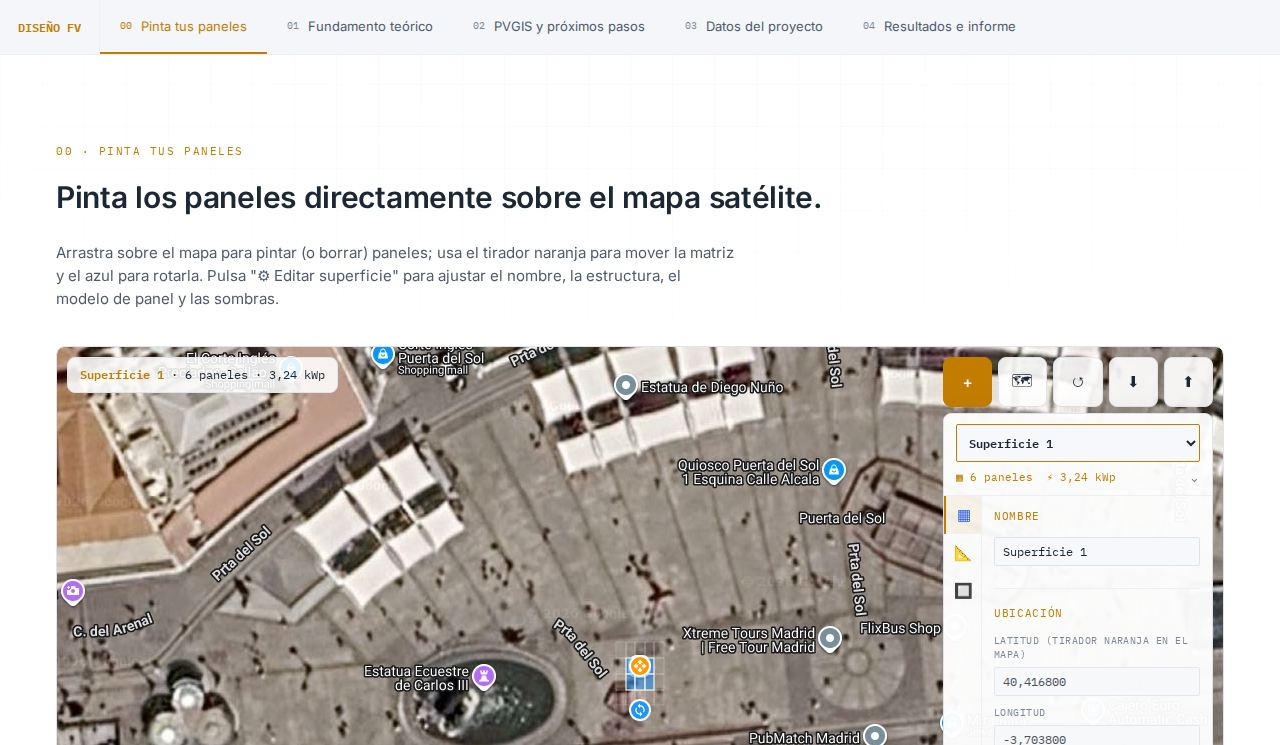
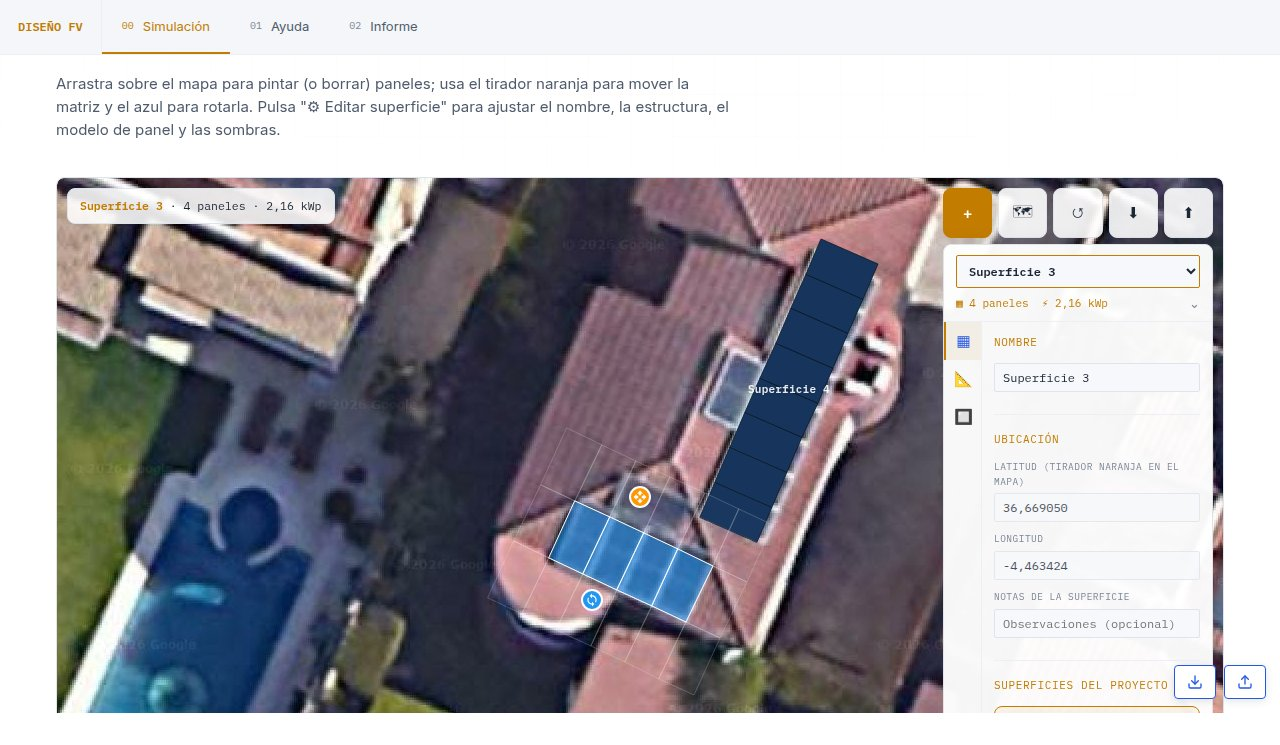
prg

diff --git a/public/docs/A00_Blog_Interactivo/A01_FV/C01_Diseno_Sistemas_FV.html b/public/docs/A00_Blog_Interactivo/A01_FV/C01_Diseno_Sistemas_FV.html
@@ -1884,8 +1884,9 @@ window.toggleInst = function(id){ document.getElementById('ib-'+id).classList.to
 // Comunicacion bidireccional con VatiaCo.<DOC_KEY_C01>.outputs.diseno: si ya hay un diseno
 // guardado en la memoria del navegador (por ejemplo, justo despues de importar un
 // VatiaCo.json con el boton "Importar VatiaCo.json", que recarga la pagina) se restauran esas
-// superficies y sus paneles pintados; si no hay nada guardado, se crea una superficie inicial
-// en blanco para que el usuario pueda empezar a pintar de inmediato.
+// superficies y sus paneles pintados; si no hay nada guardado, se carga DISENO_POR_DEFECTO.
+// Diseno de ejemplo que se carga cuando no hay ninguno guardado en el navegador.
+const DISENO_POR_DEFECTO = {"type":"FeatureCollection","features":[{"type":"Feature","properties":{"area":"Superficie 3","block":"1,-1","panel":"0,0","orientation":"vertical","rotation":25.173524524530166,"tilt":35,"slope":35,"tipoEstructura":"coplanar","width":1.134,"height":2.278,"rows":1,"cols":1,"modelo":"JKM540M-72HL4-V","potenciaW":540,"vOc":49.5,"vMp":41.5,"iSc":13.92,"iMp":13.02,"coefVoc":-0.26,"factorSeparacion":1,"sombras":"0,0,0,0,0,0,0,0,0,0,0,0,0,0,0,0","lat":36.66905035762675,"lng":-4.4634244591517485,"zoomDiseno":22,"notas":""},"geometry":{"type":"Polygon","coordinates":[[[-4.4634550345165245,36.66903410116955],[-4.463443540437609,36.66902976806014],[-4.463434650940007,36.66904493880769],[-4.4634461450189225,36.66904927191709],[-4.4634550345165245,36.66903410116955]]]}},{"type":"Feature","properties":{"area":"Superficie 3","block":"1,0","panel":"0,0","orientation":"vertical","rotation":25.173524524530166,"tilt":35,"slope":35,"tipoEstructura":"coplanar","width":1.134,"height":2.278,"rows":1,"cols":1,"modelo":"JKM540M-72HL4-V","potenciaW":540,"vOc":49.5,"vMp":41.5,"iSc":13.92,"iMp":13.02,"coefVoc":-0.26,"factorSeparacion":1,"sombras":"0,0,0,0,0,0,0,0,0,0,0,0,0,0,0,0","lat":36.66905035762675,"lng":-4.4634244591517485,"zoomDiseno":22,"notas":""},"geometry":{"type":"Polygon","coordinates":[[[-4.463443540437609,36.66902976806014],[-4.463432046358694,36.66902543495074],[-4.463423156861092,36.66904060569828],[-4.463434650940007,36.66904493880769],[-4.463443540437609,36.66902976806014]]]}},{"type":"Feature","properties":{"area":"Superficie 3","block":"1,1","panel":"0,0","orientation":"vertical","rotation":25.173524524530166,"tilt":35,"slope":35,"tipoEstructura":"coplanar","width":1.134,"height":2.278,"rows":1,"cols":1,"modelo":"JKM540M-72HL4-V","potenciaW":540,"vOc":49.5,"vMp":41.5,"iSc":13.92,"iMp":13.02,"coefVoc":-0.26,"factorSeparacion":1,"sombras":"0,0,0,0,0,0,0,0,0,0,0,0,0,0,0,0","lat":36.66905035762675,"lng":-4.4634244591517485,"zoomDiseno":22,"notas":""},"geometry":{"type":"Polygon","coordinates":[[[-4.463432046358694,36.66902543495074],[-4.463420552279778,36.66902110184133],[-4.4634116627821765,36.669036272588876],[-4.463423156861092,36.66904060569828],[-4.463432046358694,36.66902543495074]]]}},{"type":"Feature","properties":{"area":"Superficie 3","block":"1,2","panel":"0,0","orientation":"vertical","rotation":25.173524524530166,"tilt":35,"slope":35,"tipoEstructura":"coplanar","width":1.134,"height":2.278,"rows":1,"cols":1,"modelo":"JKM540M-72HL4-V","potenciaW":540,"vOc":49.5,"vMp":41.5,"iSc":13.92,"iMp":13.02,"coefVoc":-0.26,"factorSeparacion":1,"sombras":"0,0,0,0,0,0,0,0,0,0,0,0,0,0,0,0","lat":36.66905035762675,"lng":-4.4634244591517485,"zoomDiseno":22,"notas":""},"geometry":{"type":"Polygon","coordinates":[[[-4.463420552279778,36.66902110184133],[-4.463409058200862,36.66901676873193],[-4.46340016870326,36.66903193947947],[-4.4634116627821765,36.669036272588876],[-4.463420552279778,36.66902110184133]]]}},{"type":"Feature","properties":{"area":"Superficie 4","block":"0,-1","panel":"0,0","orientation":"vertical","rotation":-66.31791227546155,"tilt":35,"slope":35,"tipoEstructura":"coplanar","width":1.134,"height":2.278,"rows":1,"cols":1,"modelo":"JKM540M-72HL4-V","potenciaW":540,"vOc":49.5,"vMp":41.5,"iSc":13.92,"iMp":13.02,"coefVoc":-0.26,"factorSeparacion":1,"sombras":"0,0,0,0,0,0,0,0,0,0,0,0,0,0,0,0","lat":36.66905573412303,"lng":-4.463387242664196,"zoomDiseno":22,"notas":""},"geometry":{"type":"Polygon","coordinates":[[[-4.463385325106071,36.66903837407584],[-4.46338022388139,36.66904770311446],[-4.463399362671685,36.66905443609298],[-4.4634044638963655,36.66904510705435],[-4.463385325106071,36.66903837407584]]]}},{"type":"Feature","properties":{"area":"Superficie 4","block":"0,0","panel":"0,0","orientation":"vertical","rotation":-66.31791227546155,"tilt":35,"slope":35,"tipoEstructura":"coplanar","width":1.134,"height":2.278,"rows":1,"cols":1,"modelo":"JKM540M-72HL4-V","potenciaW":540,"vOc":49.5,"vMp":41.5,"iSc":13.92,"iMp":13.02,"coefVoc":-0.26,"factorSeparacion":1,"sombras":"0,0,0,0,0,0,0,0,0,0,0,0,0,0,0,0","lat":36.66905573412303,"lng":-4.463387242664196,"zoomDiseno":22,"notas":""},"geometry":{"type":"Polygon","coordinates":[[[-4.46338022388139,36.66904770311446],[-4.463375122656708,36.66905703215308],[-4.463394261447003,36.6690637651316],[-4.463399362671685,36.66905443609298],[-4.46338022388139,36.66904770311446]]]}},{"type":"Feature","properties":{"area":"Superficie 4","block":"0,1","panel":"0,0","orientation":"vertical","rotation":-66.31791227546155,"tilt":35,"slope":35,"tipoEstructura":"coplanar","width":1.134,"height":2.278,"rows":1,"cols":1,"modelo":"JKM540M-72HL4-V","potenciaW":540,"vOc":49.5,"vMp":41.5,"iSc":13.92,"iMp":13.02,"coefVoc":-0.26,"factorSeparacion":1,"sombras":"0,0,0,0,0,0,0,0,0,0,0,0,0,0,0,0","lat":36.66905573412303,"lng":-4.463387242664196,"zoomDiseno":22,"notas":""},"geometry":{"type":"Polygon","coordinates":[[[-4.463375122656708,36.66905703215308],[-4.463370021432027,36.6690663611917],[-4.463389160222322,36.669073094170216],[-4.463394261447003,36.6690637651316],[-4.463375122656708,36.66905703215308]]]}},{"type":"Feature","properties":{"area":"Superficie 4","block":"0,2","panel":"0,0","orientation":"vertical","rotation":-66.31791227546155,"tilt":35,"slope":35,"tipoEstructura":"coplanar","width":1.134,"height":2.278,"rows":1,"cols":1,"modelo":"JKM540M-72HL4-V","potenciaW":540,"vOc":49.5,"vMp":41.5,"iSc":13.92,"iMp":13.02,"coefVoc":-0.26,"factorSeparacion":1,"sombras":"0,0,0,0,0,0,0,0,0,0,0,0,0,0,0,0","lat":36.66905573412303,"lng":-4.463387242664196,"zoomDiseno":22,"notas":""},"geometry":{"type":"Polygon","coordinates":[[[-4.463370021432027,36.6690663611917],[-4.463364920207346,36.66907569023032],[-4.463384058997641,36.669082423208835],[-4.463389160222322,36.669073094170216],[-4.463370021432027,36.6690663611917]]]}},{"type":"Feature","properties":{"area":"Superficie 4","block":"0,3","panel":"0,0","orientation":"vertical","rotation":-66.31791227546155,"tilt":35,"slope":35,"tipoEstructura":"coplanar","width":1.134,"height":2.278,"rows":1,"cols":1,"modelo":"JKM540M-72HL4-V","potenciaW":540,"vOc":49.5,"vMp":41.5,"iSc":13.92,"iMp":13.02,"coefVoc":-0.26,"factorSeparacion":1,"sombras":"0,0,0,0,0,0,0,0,0,0,0,0,0,0,0,0","lat":36.66905573412303,"lng":-4.463387242664196,"zoomDiseno":22,"notas":""},"geometry":{"type":"Polygon","coordinates":[[[-4.463364920207346,36.66907569023032],[-4.463359818982664,36.66908501926894],[-4.46337895777296,36.66909175224745],[-4.463384058997641,36.669082423208835],[-4.463364920207346,36.66907569023032]]]}},{"type":"Feature","properties":{"area":"Superficie 4","block":"0,4","panel":"0,0","orientation":"vertical","rotation":-66.31791227546155,"tilt":35,"slope":35,"tipoEstructura":"coplanar","width":1.134,"height":2.278,"rows":1,"cols":1,"modelo":"JKM540M-72HL4-V","potenciaW":540,"vOc":49.5,"vMp":41.5,"iSc":13.92,"iMp":13.02,"coefVoc":-0.26,"factorSeparacion":1,"sombras":"0,0,0,0,0,0,0,0,0,0,0,0,0,0,0,0","lat":36.66905573412303,"lng":-4.463387242664196,"zoomDiseno":22,"notas":""},"geometry":{"type":"Polygon","coordinates":[[[-4.463359818982664,36.66908501926894],[-4.4633547177579835,36.66909434830756],[-4.463373856548278,36.66910108128607],[-4.46337895777296,36.66909175224745],[-4.463359818982664,36.66908501926894]]]}},{"type":"Feature","properties":{"area":"Superficie 4","block":"0,5","panel":"0,0","orientation":"vertical","rotation":-66.31791227546155,"tilt":35,"slope":35,"tipoEstructura":"coplanar","width":1.134,"height":2.278,"rows":1,"cols":1,"modelo":"JKM540M-72HL4-V","potenciaW":540,"vOc":49.5,"vMp":41.5,"iSc":13.92,"iMp":13.02,"coefVoc":-0.26,"factorSeparacion":1,"sombras":"0,0,0,0,0,0,0,0,0,0,0,0,0,0,0,0","lat":36.66905573412303,"lng":-4.463387242664196,"zoomDiseno":22,"notas":""},"geometry":{"type":"Polygon","coordinates":[[[-4.4633547177579835,36.66909434830756],[-4.463349616533303,36.66910367734618],[-4.4633687553235974,36.66911041032469],[-4.463373856548278,36.66910108128607],[-4.4633547177579835,36.66909434830756]]]}},{"type":"Feature","properties":{"area":"Superficie 4","block":"0,6","panel":"0,0","orientation":"vertical","rotation":-66.31791227546155,"tilt":35,"slope":35,"tipoEstructura":"coplanar","width":1.134,"height":2.278,"rows":1,"cols":1,"modelo":"JKM540M-72HL4-V","potenciaW":540,"vOc":49.5,"vMp":41.5,"iSc":13.92,"iMp":13.02,"coefVoc":-0.26,"factorSeparacion":1,"sombras":"0,0,0,0,0,0,0,0,0,0,0,0,0,0,0,0","lat":36.66905573412303,"lng":-4.463387242664196,"zoomDiseno":22,"notas":""},"geometry":{"type":"Polygon","coordinates":[[[-4.463349616533303,36.66910367734618],[-4.463344515308622,36.6691130063848],[-4.4633636540989166,36.66911973936332],[-4.4633687553235974,36.66911041032469],[-4.463349616533303,36.66910367734618]]]}}]};
 (function restaurarDisenoOInicial(){
   const guardado = vatiacoLeer()[DOC_KEY_C01];
   const disenoGuardado = guardado && guardado.outputs && guardado.outputs.diseno;
@@ -1893,6 +1894,7 @@ window.toggleInst = function(id){ document.getElementById('ib-'+id).classList.to
     const n = importarGeoJSON(disenoGuardado);
     if(n>0){ showToast(n+' superficie(s) restauradas desde la memoria del navegador (VatiaCo.'+DOC_KEY_C01+'.outputs.diseno).'); return; }
   }
+  if(importarGeoJSON(DISENO_POR_DEFECTO)>0) return;
   nuevaSuperficie();
 })();
 window.__debug = { getInstallations:()=>installations, getPintor:()=>pintor, getActiva:()=>activa() };
